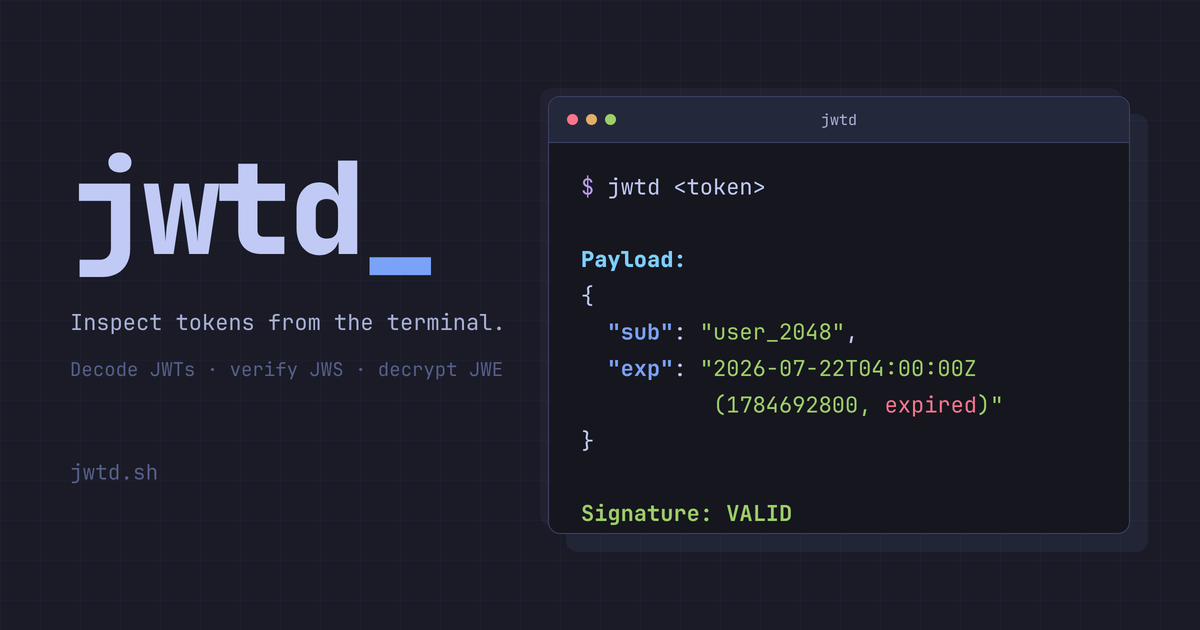
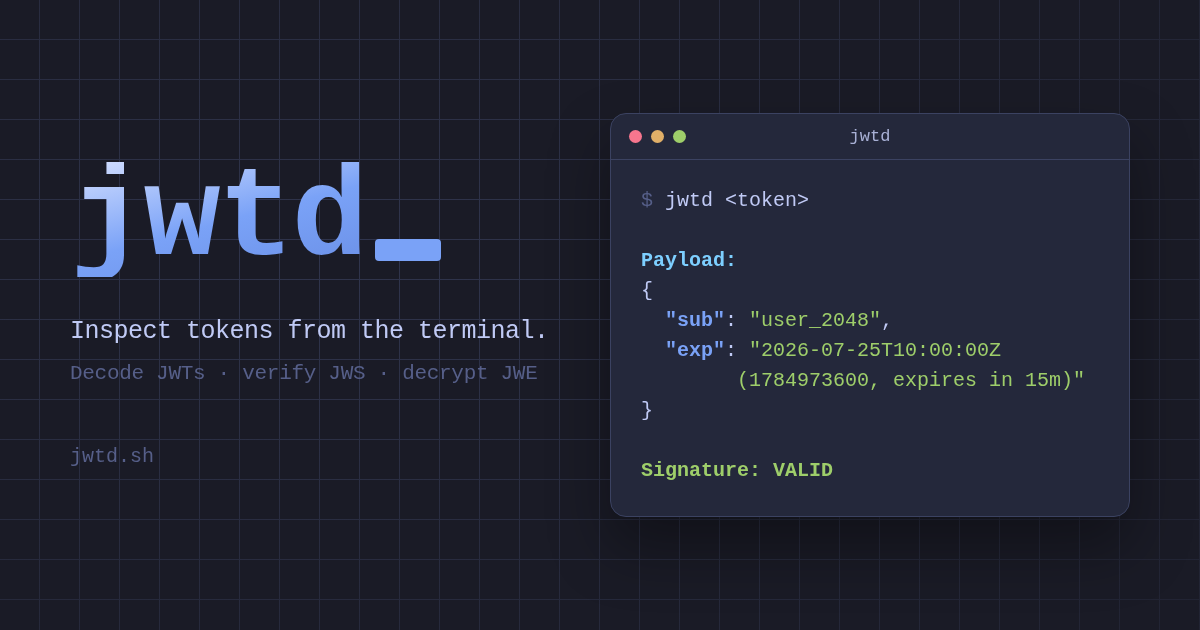
docs(site): reflect relative-time annotations in hero and og.png
Update the hero terminal example and regenerate og.png so the exp claim
shows the new relative-time annotation: a live token reading
"expires in 15m" against an iat 15 minutes earlier, paired with the
"Signature: VALID" line. The annotation stays green like the rest of the
timestamp value, matching the tool's actual output.

og.png was re-rendered at 1200x630 from an HTML template via headless
chromium, preserving the existing Tokyo Night layout.

diff --git a/site/index.html b/site/index.html
@@ -143,8 +143,8 @@
 {
   <span class="token-key">"sub"</span>: <span class="token-string">"user_2048"</span>,
   <span class="token-key">"admin"</span>: <span class="token-boolean">true</span>,
-  <span class="token-key">"iat"</span>: <span class="token-string">"2026-07-22T03:00:00Z (1784689200)"</span>,
-  <span class="token-key">"exp"</span>: <span class="token-string">"2026-07-22T04:00:00Z (1784692800, expired)"</span>,
+  <span class="token-key">"iat"</span>: <span class="token-string">"2026-07-25T09:45:00Z (1784972700)"</span>,
+  <span class="token-key">"exp"</span>: <span class="token-string">"2026-07-25T10:00:00Z (1784973600, expires in 15m)"</span>,
   <span class="token-key">"note"</span>: <span class="token-null">null</span>
 }
 
